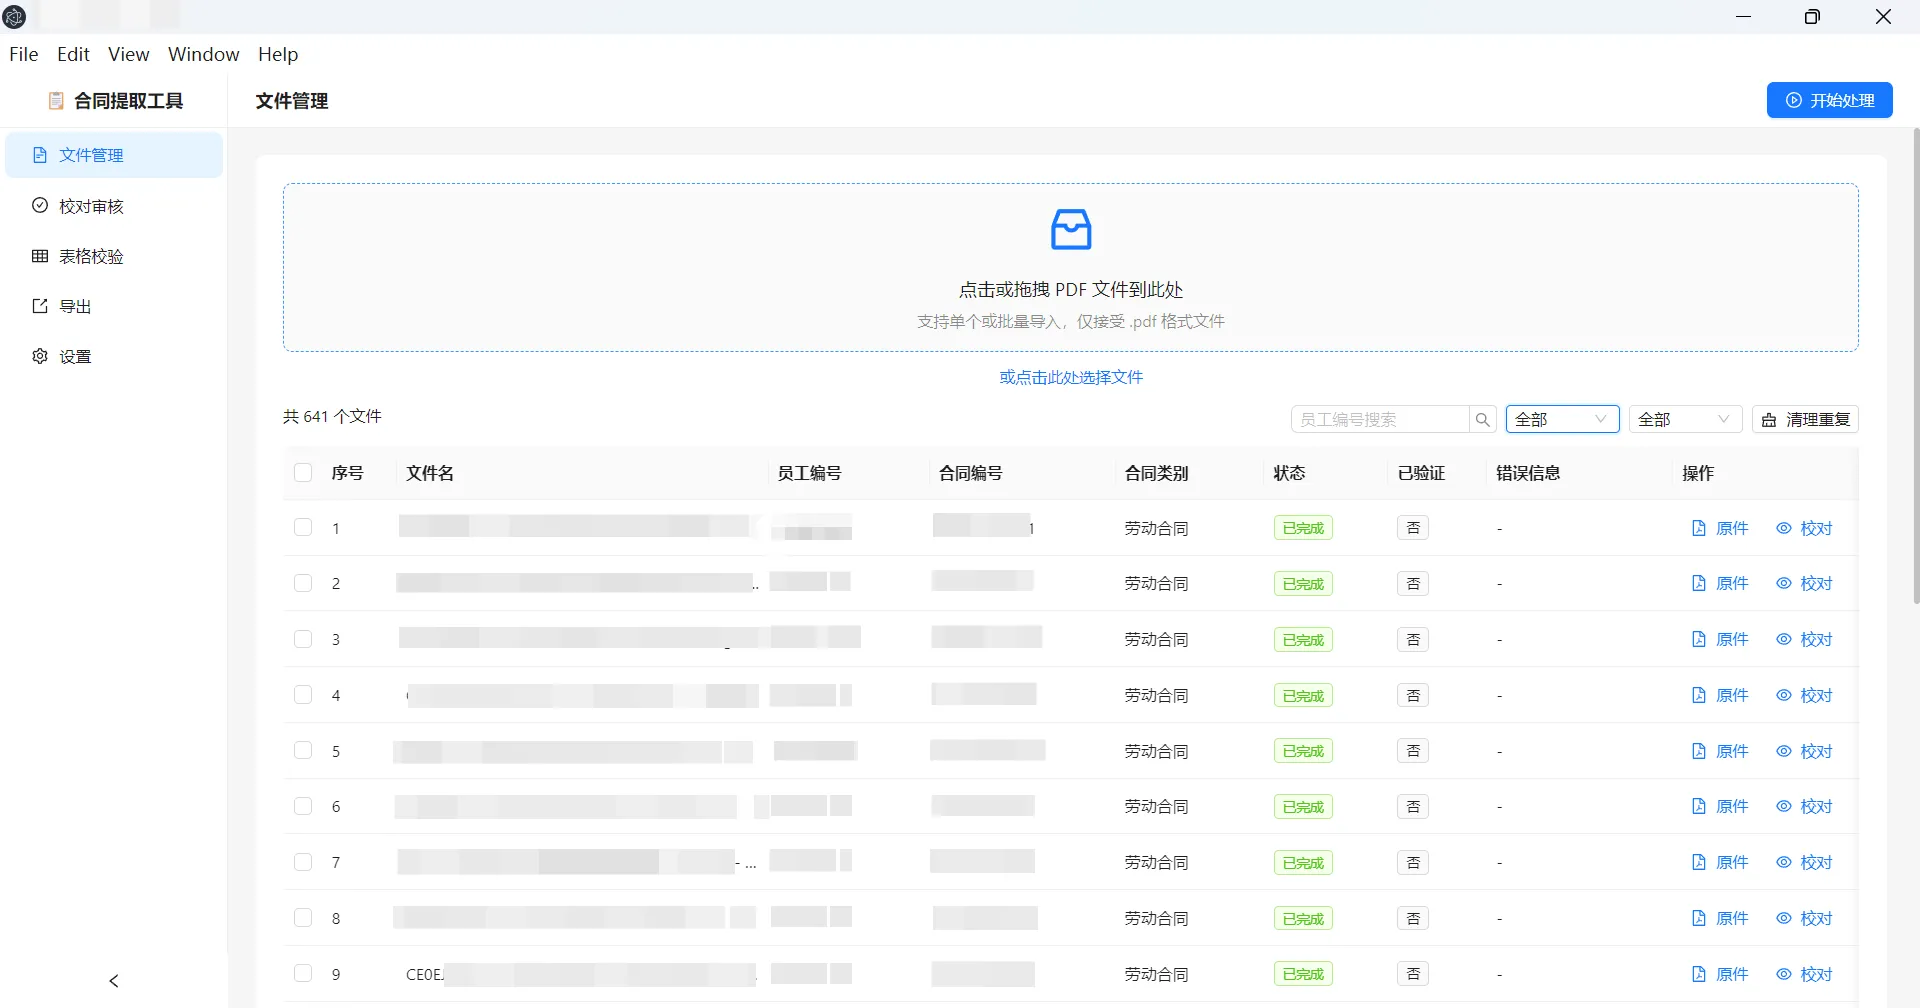
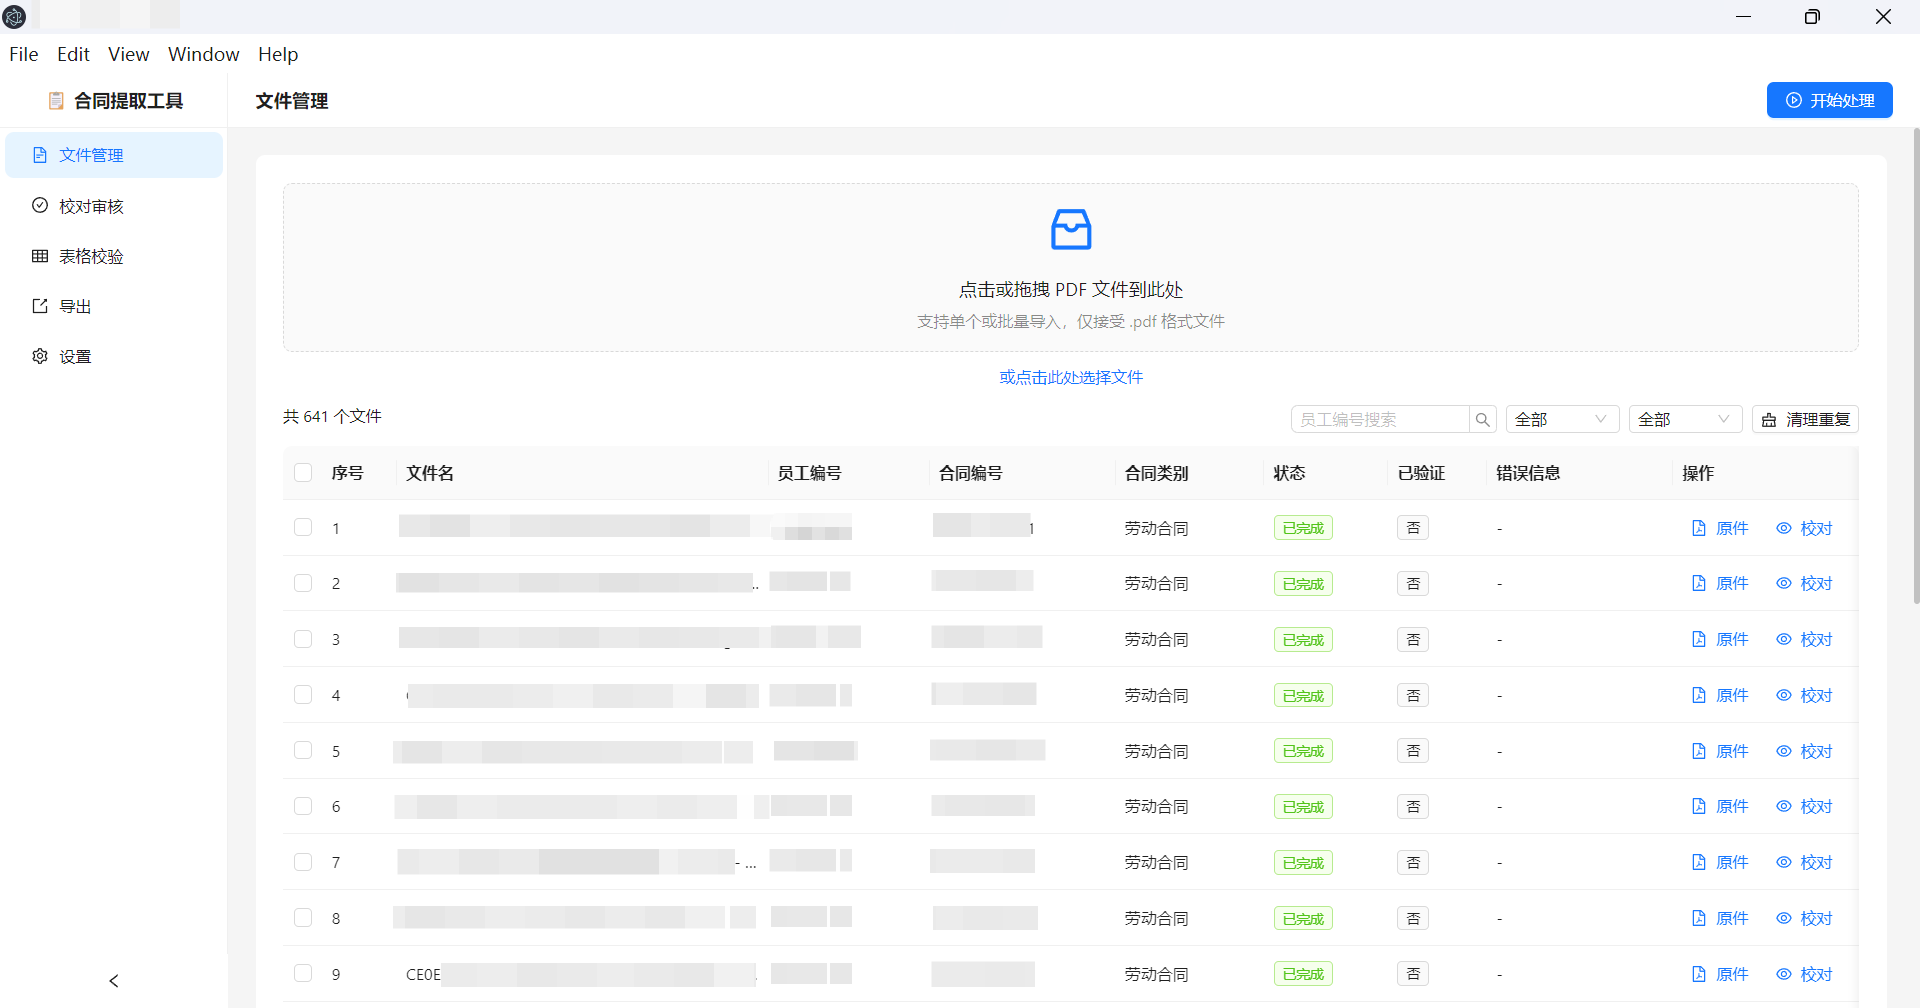
作品集重构：封面图+纯白卡片+分层标签+含金量排序

diff --git a/works/index.html b/works/index.html
@@ -47,12 +47,13 @@
 <h1 class="text-3xl font-bold text-[var(--text)] mb-3">作品集</h1>
 <p class="text-[var(--text-soft)] mb-10">精选项目与作品展示</p>
 <div class="grid grid-cols-1 md:grid-cols-2 lg:grid-cols-3 gap-6">
-<div class="rounded-lg border border-[var(--border)] bg-[var(--card)] overflow-hidden hover:shadow-md transition-shadow"><div class="h-36 bg-gradient-to-br from-[var(--primary-soft)] to-[var(--secondary-soft)] flex items-center justify-center text-5xl">🍽️</div><div class="p-5"><h3 class="font-semibold text-[var(--text)] mb-1.5">五山校区周边餐饮分析</h3><p class="text-sm text-[var(--text-soft)] mb-3 line-clamp-2">高德API网格采集 + DeepSeek智能分类 + Folium交互地图，华工五山校区周边全品类餐饮POI分析。</p><div class="flex flex-wrap gap-2 mb-4"><span class="text-xs px-2 py-0.5 rounded-full bg-[var(--primary-soft)] text-[var(--primary)]">数据分析</span><span class="text-xs px-2 py-0.5 rounded-full bg-[var(--hover)] text-[var(--text-soft)]">Python · 高德API · DeepSeek · Folium · Pandas</span></div><div class="flex items-center gap-2"><a href="/works/五山校区餐饮分析/wushan_food_map.html" target="_blank" rel="noopener noreferrer" class="px-3 py-1.5 rounded-md bg-[var(--primary)] text-white text-xs font-medium hover:opacity-90 transition-opacity">在线 Demo</a><a href="/works/五山校区餐饮分析/" class="px-3 py-1.5 rounded-md border border-[var(--border)] text-xs font-medium text-[var(--text)] hover:bg-[var(--hover)] transition-colors">查看详情</a></div></div></div>
-<div class="rounded-lg border border-[var(--border)] bg-[var(--card)] overflow-hidden hover:shadow-md transition-shadow"><div class="h-36 bg-gradient-to-br from-[var(--primary-soft)] to-[var(--secondary-soft)] flex items-center justify-center text-5xl">🍬</div><div class="p-5"><h3 class="font-semibold text-[var(--text)] mb-1.5">趣味消消乐</h3><p class="text-sm text-[var(--text-soft)] mb-3 line-clamp-2">6×6 水果糖消除游戏，Web Audio 音效引擎，滑动交换动画。</p><div class="flex flex-wrap gap-2 mb-4"><span class="text-xs px-2 py-0.5 rounded-full bg-[var(--primary-soft)] text-[var(--primary)]">小游戏</span><span class="text-xs px-2 py-0.5 rounded-full bg-[var(--hover)] text-[var(--text-soft)]">JavaScript</span></div><div class="flex items-center gap-2"><a href="/Vibecoding/消消乐.html" target="_blank" rel="noopener noreferrer" class="px-3 py-1.5 rounded-md bg-[var(--primary)] text-white text-xs font-medium hover:opacity-90 transition-opacity">在线 Demo</a><a href="#" class="px-3 py-1.5 rounded-md border border-[var(--border)] text-xs font-medium text-[var(--text)] hover:bg-[var(--hover)] transition-colors">查看详情</a></div></div></div>
-<div class="rounded-lg border border-[var(--border)] bg-[var(--card)] overflow-hidden hover:shadow-md transition-shadow"><div class="h-36 bg-gradient-to-br from-[var(--primary-soft)] to-[var(--secondary-soft)] flex items-center justify-center text-5xl">🤖</div><div class="p-5"><h3 class="font-semibold text-[var(--text)] mb-1.5">保险AI咨询产品</h3><p class="text-sm text-[var(--text-soft)] mb-3 line-clamp-2">团队协作开发保险智能咨询小程序，实现问答与轻量化游戏交互，比赛获一等奖。</p><div class="flex flex-wrap gap-2 mb-4"><span class="text-xs px-2 py-0.5 rounded-full bg-[var(--primary-soft)] text-[var(--primary)]">AI与数据应用</span><span class="text-xs px-2 py-0.5 rounded-full bg-[var(--hover)] text-[var(--text-soft)]">RAG · 大模型API · 前端交互</span></div><div class="flex items-center gap-2"><span class="px-3 py-1.5 rounded-md bg-[var(--border)] text-[var(--text-soft)] text-xs font-medium cursor-not-allowed">暂无 Demo</span><a href="/works/ai保险助手/" class="px-3 py-1.5 rounded-md border border-[var(--border)] text-xs font-medium text-[var(--text)] hover:bg-[var(--hover)] transition-colors">查看详情</a></div></div></div>
-<div class="rounded-lg border border-[var(--border)] bg-[var(--card)] overflow-hidden hover:shadow-md transition-shadow"><div class="h-36 bg-gradient-to-br from-[var(--primary-soft)] to-[var(--secondary-soft)] flex items-center justify-center text-5xl">📊</div><div class="p-5"><h3 class="font-semibold text-[var(--text)] mb-1.5">月度销售数据报表</h3><p class="text-sm text-[var(--text-soft)] mb-3 line-clamp-2">Excel 报表制造能力展示，数据可视化。</p><div class="flex flex-wrap gap-2 mb-4"><span class="text-xs px-2 py-0.5 rounded-full bg-[var(--primary-soft)] text-[var(--primary)]">数据分析</span><span class="text-xs px-2 py-0.5 rounded-full bg-[var(--hover)] text-[var(--text-soft)]">Excel</span></div><div class="flex items-center gap-2"><a href="/salesdata.pdf" target="_blank" rel="noopener noreferrer" class="px-3 py-1.5 rounded-md bg-[var(--primary)] text-white text-xs font-medium hover:opacity-90 transition-opacity">在线 Demo</a><a href="#" class="px-3 py-1.5 rounded-md border border-[var(--border)] text-xs font-medium text-[var(--text)] hover:bg-[var(--hover)] transition-colors">查看详情</a></div></div></div>
-<div class="rounded-lg border border-[var(--border)] bg-[var(--card)] overflow-hidden hover:shadow-md transition-shadow"><div class="h-36 bg-gradient-to-br from-[var(--primary-soft)] to-[var(--secondary-soft)] flex items-center justify-center text-5xl">📄</div><div class="p-5"><h3 class="font-semibold text-[var(--text)] mb-1.5">合同智能提取工具</h3><p class="text-sm text-[var(--text-soft)] mb-3 line-clamp-2">Electron 桌面应用，LLM + OCR 批量提取 PDF 合同 44 个字段，支持校对审核与 Excel 导出。</p><div class="flex flex-wrap gap-2 mb-4"><span class="text-xs px-2 py-0.5 rounded-full bg-[var(--primary-soft)] text-[var(--primary)]">AI与数据应用</span><span class="text-xs px-2 py-0.5 rounded-full bg-[var(--hover)] text-[var(--text-soft)]">Electron · React · DeepSeek</span></div><div class="flex items-center gap-2"><a href="https://github.com/yangzhangscut2025/contract-extractor" target="_blank" rel="noopener noreferrer" class="px-3 py-1.5 rounded-md bg-[var(--primary)] text-white text-xs font-medium hover:opacity-90 transition-opacity">在线 Demo</a><a href="/works/合同校对工具/" class="px-3 py-1.5 rounded-md border border-[var(--border)] text-xs font-medium text-[var(--text)] hover:bg-[var(--hover)] transition-colors">查看详情</a></div></div></div>
-<div class="rounded-lg border border-[var(--border)] bg-[var(--card)] overflow-hidden hover:shadow-md transition-shadow"><div class="h-36 bg-gradient-to-br from-[var(--primary-soft)] to-[var(--secondary-soft)] flex items-center justify-center text-5xl">♟️</div><div class="p-5"><h3 class="font-semibold text-[var(--text)] mb-1.5">网页版五子棋</h3><p class="text-sm text-[var(--text-soft)] mb-3 line-clamp-2">AI 博弈对抗，纯前端实现。</p><div class="flex flex-wrap gap-2 mb-4"><span class="text-xs px-2 py-0.5 rounded-full bg-[var(--primary-soft)] text-[var(--primary)]">AI 博弈</span><span class="text-xs px-2 py-0.5 rounded-full bg-[var(--hover)] text-[var(--text-soft)]">JavaScript</span></div><div class="flex items-center gap-2"><a href="/Vibecoding/ai五子棋.html" target="_blank" rel="noopener noreferrer" class="px-3 py-1.5 rounded-md bg-[var(--primary)] text-white text-xs font-medium hover:opacity-90 transition-opacity">在线 Demo</a><a href="#" class="px-3 py-1.5 rounded-md border border-[var(--border)] text-xs font-medium text-[var(--text)] hover:bg-[var(--hover)] transition-colors">查看详情</a></div></div></div>
+<div class="group rounded-lg border border-[var(--border)] bg-white overflow-hidden shadow-sm hover:shadow-md hover:-translate-y-0.5 transition-all duration-200"><div class="aspect-video overflow-hidden"><img src="works/合同校对工具/images/文件管理页面.png" class="w-full h-full object-cover" loading="lazy"></div><div class="p-5"><h3 class="text-base font-bold text-[var(--text)] mb-1.5">合同智能提取工具</h3><p class="text-sm text-[var(--text-soft)] mb-3 line-clamp-2 leading-relaxed">LLM + OCR 批量提取 PDF 合同 44 个关键字段，支持校对审核与 Excel 导出。</p><div class="flex flex-wrap gap-1.5 mb-2"><span class="text-xs px-2 py-0.5 rounded bg-blue-50 text-blue-600 font-medium">AI与数据应用</span></div><div class="flex flex-wrap gap-1.5 mb-4"><span class="text-xs px-2 py-0.5 rounded bg-gray-100 text-gray-500">Electron · React · DeepSeek · OCR</span></div><div class="flex items-center gap-2"><a href="https://github.com/yangzhangscut2025/contract-extractor" target="_blank" rel="noopener noreferrer" class="px-4 py-1.5 rounded-md bg-[var(--primary)] text-white text-xs font-medium hover:opacity-90 transition-opacity">在线 Demo</a><a href="/works/合同校对工具/" class="px-4 py-1.5 rounded-md border border-[var(--border)] text-xs font-medium text-[var(--text)] hover:bg-[var(--hover)] transition-colors">查看详情</a></div></div></div>
+<div class="group rounded-lg border border-[var(--border)] bg-white overflow-hidden shadow-sm hover:shadow-md hover:-translate-y-0.5 transition-all duration-200"><div class="aspect-video overflow-hidden"><img src="works/ai保险助手/ai保险项目封面图.png" class="w-full h-full object-cover" loading="lazy"></div><div class="p-5"><h3 class="text-base font-bold text-[var(--text)] mb-1.5">AI保险规划助手</h3><p class="text-sm text-[var(--text-soft)] mb-3 line-clamp-2 leading-relaxed">大模型 + RAG 知识库驱动的智能保险顾问，趣味问答与游戏化角色扮演，获黑客松一等奖。</p><div class="flex flex-wrap gap-1.5 mb-2"><span class="text-xs px-2 py-0.5 rounded bg-blue-50 text-blue-600 font-medium">AI与数据应用</span></div><div class="flex flex-wrap gap-1.5 mb-4"><span class="text-xs px-2 py-0.5 rounded bg-gray-100 text-gray-500">Flask · 通义千问 · RAG · ChromaDB</span></div><div class="flex items-center gap-2"><span class="text-xs text-[var(--text-soft)] opacity-60">暂无 Demo</span><a href="/works/ai保险助手/" class="px-4 py-1.5 rounded-md border border-[var(--border)] text-xs font-medium text-[var(--text)] hover:bg-[var(--hover)] transition-colors">查看详情</a></div></div></div>
+<div class="group rounded-lg border border-[var(--border)] bg-white overflow-hidden shadow-sm hover:shadow-md hover:-translate-y-0.5 transition-all duration-200"><div class="aspect-video overflow-hidden"><img src="works/五山校区餐饮分析/五山餐饮分布项目封面图.png" class="w-full h-full object-cover" loading="lazy"></div><div class="p-5"><h3 class="text-base font-bold text-[var(--text)] mb-1.5">五山校区周边餐饮分析</h3><p class="text-sm text-[var(--text-soft)] mb-3 line-clamp-2 leading-relaxed">高德API网格采集 + DeepSeek智能分类 + Folium交互地图，全品类餐饮POI分析与可视化。</p><div class="flex flex-wrap gap-1.5 mb-2"><span class="text-xs px-2 py-0.5 rounded bg-blue-50 text-blue-600 font-medium">数据分析</span></div><div class="flex flex-wrap gap-1.5 mb-4"><span class="text-xs px-2 py-0.5 rounded bg-gray-100 text-gray-500">Python · 高德API · DeepSeek · Folium</span></div><div class="flex items-center gap-2"><a href="/works/五山校区餐饮分析/wushan_food_map.html" target="_blank" rel="noopener noreferrer" class="px-4 py-1.5 rounded-md bg-[var(--primary)] text-white text-xs font-medium hover:opacity-90 transition-opacity">在线 Demo</a><a href="/works/五山校区餐饮分析/" class="px-4 py-1.5 rounded-md border border-[var(--border)] text-xs font-medium text-[var(--text)] hover:bg-[var(--hover)] transition-colors">查看详情</a></div></div></div>
+<div class="group rounded-lg border border-[var(--border)] bg-white overflow-hidden shadow-sm hover:shadow-md hover:-translate-y-0.5 transition-all duration-200"><div class="aspect-video overflow-hidden"><img src="works/Excel报表/封面图.png" class="w-full h-full object-cover" loading="lazy"></div><div class="p-5"><h3 class="text-base font-bold text-[var(--text)] mb-1.5">月度销售数据报表</h3><p class="text-sm text-[var(--text-soft)] mb-3 line-clamp-2 leading-relaxed">Excel 数据可视化报表，销售数据多维度分析与展示。</p><div class="flex flex-wrap gap-1.5 mb-2"><span class="text-xs px-2 py-0.5 rounded bg-blue-50 text-blue-600 font-medium">数据分析</span></div><div class="flex flex-wrap gap-1.5 mb-4"><span class="text-xs px-2 py-0.5 rounded bg-gray-100 text-gray-500">Excel · 数据可视化</span></div><div class="flex items-center gap-2"><a href="/salesdata.pdf" target="_blank" rel="noopener noreferrer" class="px-4 py-1.5 rounded-md bg-[var(--primary)] text-white text-xs font-medium hover:opacity-90 transition-opacity">在线 Demo</a><span class="px-4 py-1.5 rounded-md border border-[var(--border)] text-xs font-medium text-[var(--text)] hover:bg-[var(--hover)] transition-colors cursor-pointer">查看详情</span></div></div></div>
+<div class="group rounded-lg border border-[var(--border)] bg-white overflow-hidden shadow-sm hover:shadow-md hover:-translate-y-0.5 transition-all duration-200"><div class="aspect-video overflow-hidden"><div class="w-full h-full bg-gradient-to-br from-[var(--primary-soft)] to-[var(--secondary-soft)]"></div></div><div class="p-5"><h3 class="text-base font-bold text-[var(--text)] mb-1.5">高精度地图生产调度优化</h3><p class="text-sm text-[var(--text-soft)] mb-3 line-clamp-2 leading-relaxed">GA / SA / NSGA-II 多算法对比，Flask + ECharts 可视化平台，工期缩短 20.8%。</p><div class="flex flex-wrap gap-1.5 mb-2"><span class="text-xs px-2 py-0.5 rounded bg-blue-50 text-blue-600 font-medium">运筹优化</span></div><div class="flex flex-wrap gap-1.5 mb-4"><span class="text-xs px-2 py-0.5 rounded bg-gray-100 text-gray-500">Python · GA · SA · NSGA-II · Flask · ECharts</span></div><div class="flex items-center gap-2"><a href="/地图生产调度/工作展示.html" target="_blank" rel="noopener noreferrer" class="px-4 py-1.5 rounded-md bg-[var(--primary)] text-white text-xs font-medium hover:opacity-90 transition-opacity">在线 Demo</a><a href="/works/地图生产调度/" class="px-4 py-1.5 rounded-md border border-[var(--border)] text-xs font-medium text-[var(--text)] hover:bg-[var(--hover)] transition-colors">查看详情</a></div></div></div>
+<div class="group rounded-lg border border-[var(--border)] bg-white overflow-hidden shadow-sm hover:shadow-md hover:-translate-y-0.5 transition-all duration-200"><div class="aspect-video overflow-hidden"><img src="works/消消乐/封面图.png" class="w-full h-full object-cover" loading="lazy"></div><div class="p-5"><h3 class="text-base font-bold text-[var(--text)] mb-1.5">趣味消消乐</h3><p class="text-sm text-[var(--text-soft)] mb-3 line-clamp-2 leading-relaxed">6×6 水果糖消除游戏，Web Audio 音效引擎，滑动交换动画，桌面端点击/移动端滑动双模式。</p><div class="flex flex-wrap gap-1.5 mb-2"><span class="text-xs px-2 py-0.5 rounded bg-blue-50 text-blue-600 font-medium">小游戏</span></div><div class="flex flex-wrap gap-1.5 mb-4"><span class="text-xs px-2 py-0.5 rounded bg-gray-100 text-gray-500">JavaScript · Web Audio · CSS动画</span></div><div class="flex items-center gap-2"><a href="/Vibecoding/消消乐.html" target="_blank" rel="noopener noreferrer" class="px-4 py-1.5 rounded-md bg-[var(--primary)] text-white text-xs font-medium hover:opacity-90 transition-opacity">在线 Demo</a><span class="px-4 py-1.5 rounded-md border border-[var(--border)] text-xs font-medium text-[var(--text)] hover:bg-[var(--hover)] transition-colors cursor-pointer">查看详情</span></div></div></div>
+<div class="group rounded-lg border border-[var(--border)] bg-white overflow-hidden shadow-sm hover:shadow-md hover:-translate-y-0.5 transition-all duration-200"><div class="aspect-video overflow-hidden"><img src="works/五子棋/封面图.png" class="w-full h-full object-cover" loading="lazy"></div><div class="p-5"><h3 class="text-base font-bold text-[var(--text)] mb-1.5">网页版五子棋</h3><p class="text-sm text-[var(--text-soft)] mb-3 line-clamp-2 leading-relaxed">AI 博弈对抗，纯前端 Canvas 实现，PVE 人机对战。</p><div class="flex flex-wrap gap-1.5 mb-2"><span class="text-xs px-2 py-0.5 rounded bg-blue-50 text-blue-600 font-medium">AI 博弈</span></div><div class="flex flex-wrap gap-1.5 mb-4"><span class="text-xs px-2 py-0.5 rounded bg-gray-100 text-gray-500">JavaScript · Canvas</span></div><div class="flex items-center gap-2"><a href="/Vibecoding/ai五子棋.html" target="_blank" rel="noopener noreferrer" class="px-4 py-1.5 rounded-md bg-[var(--primary)] text-white text-xs font-medium hover:opacity-90 transition-opacity">在线 Demo</a><span class="px-4 py-1.5 rounded-md border border-[var(--border)] text-xs font-medium text-[var(--text)] hover:bg-[var(--hover)] transition-colors cursor-pointer">查看详情</span></div></div></div>
 </div>
 </div></main>
 